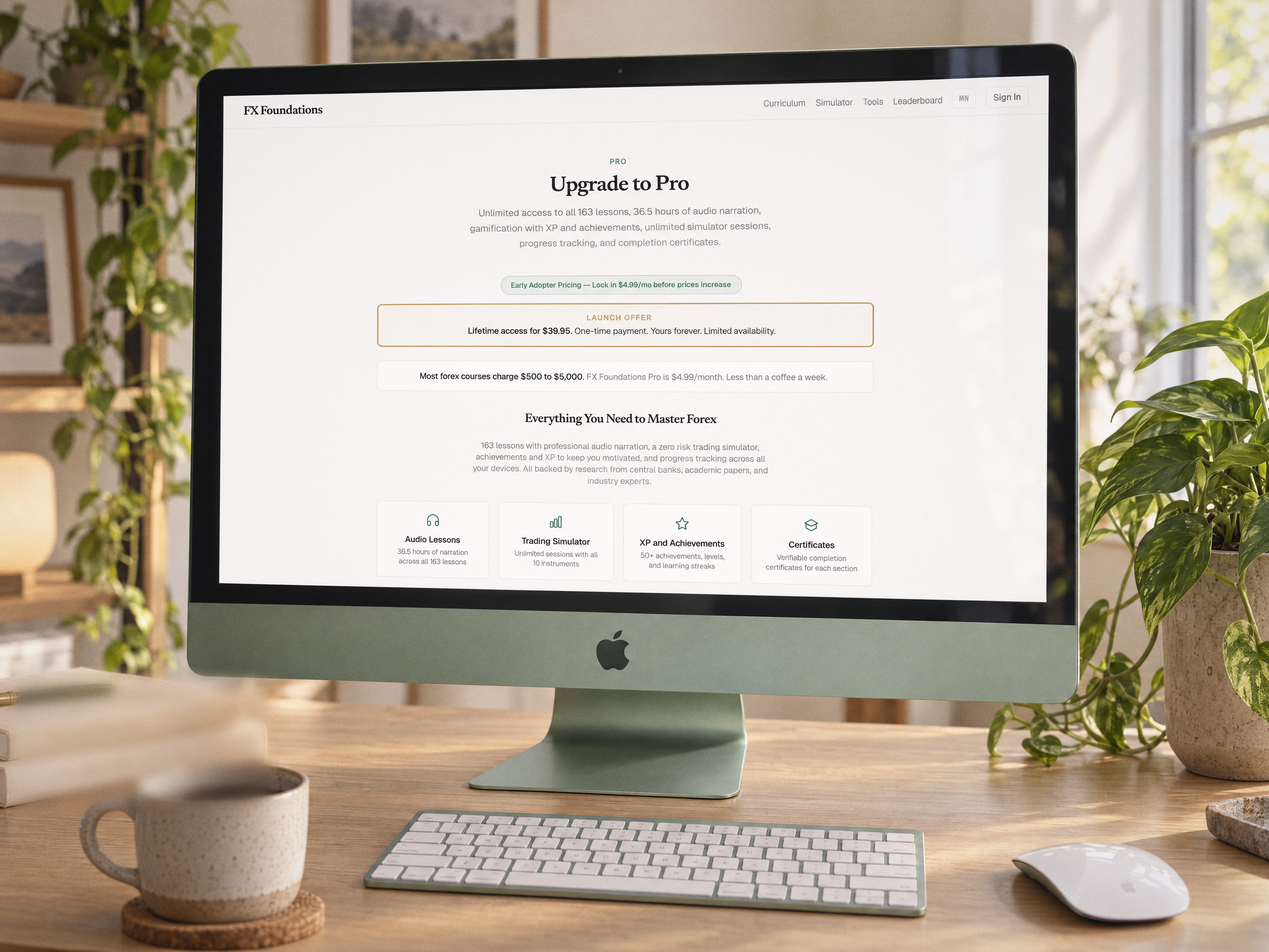
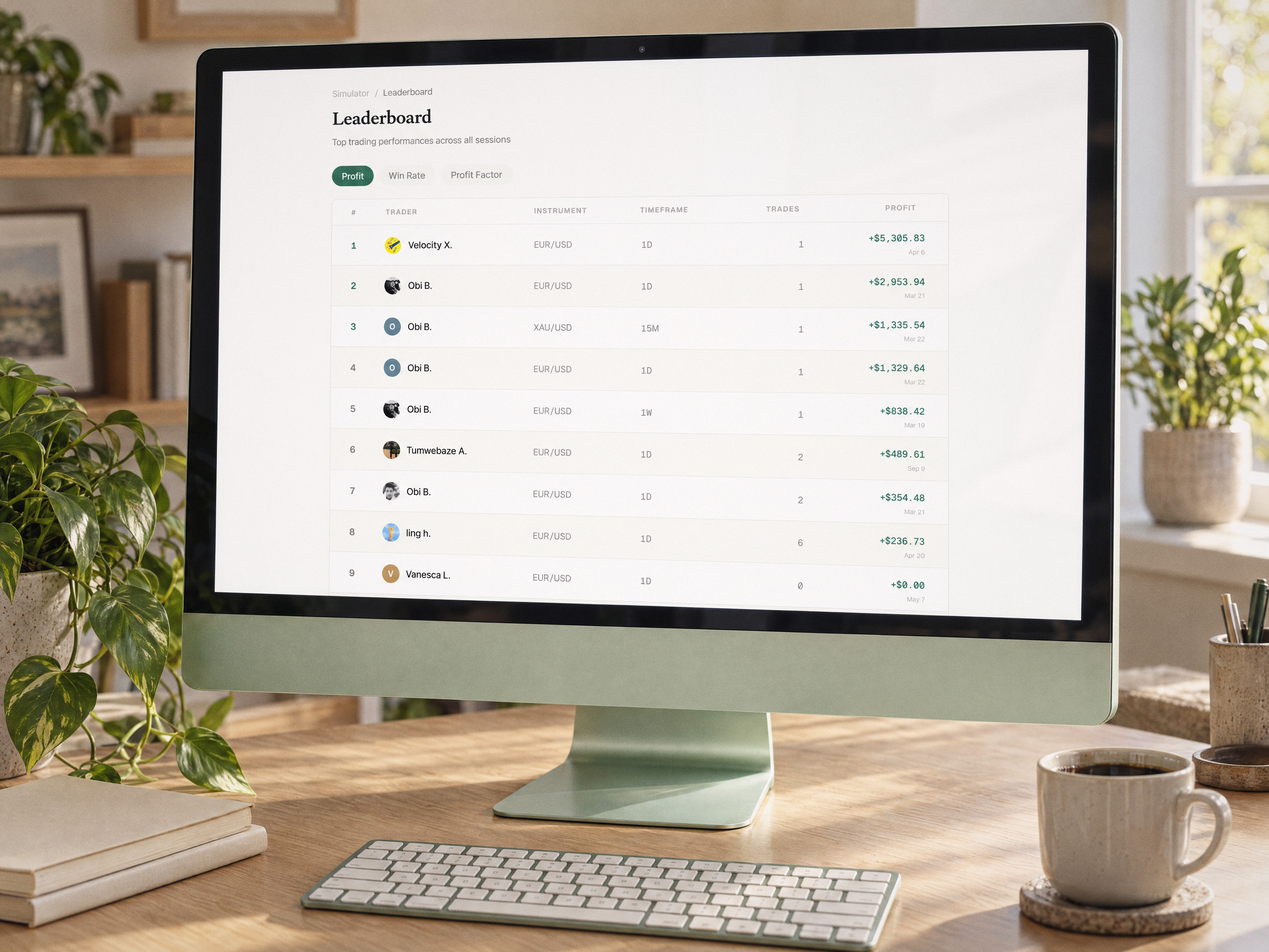
fix(work): FX Foundations iMac image shows the leaderboard instead of pricing

diff --git a/src/app/work/[slug]/page.tsx b/src/app/work/[slug]/page.tsx
@@ -258,7 +258,7 @@ const projects: CaseStudy[] = [
     gallery: [
       { src: "/images/projects/fx-foundations/fx-foundations-gallery-01.jpg", alt: "A lesson page on an iPad propped on a study desk beside headphones and a notebook", caption: "Every lesson is MDX with typed key terms, callouts and cited sources, narrated for listening on the go." },
       { src: "/images/projects/fx-foundations/fx-foundations-gallery-02.jpg", alt: "The curriculum page on a phone laid flat beside earbuds, a notebook and an espresso", caption: "18 sections, 163 lessons, 39 hours, all statically rendered and readable on a phone." },
-      { src: "/images/projects/fx-foundations/fx-foundations-gallery-03.jpg", alt: "The pricing page on a green iMac in a plant-filled home study", caption: "Stripe powered Pro plans: $4.99 monthly or $39.95 lifetime." },
+      { src: "/images/projects/fx-foundations/fx-foundations-gallery-03.jpg", alt: "The simulator leaderboard on a green iMac in a plant-filled home study", caption: "The public leaderboard: simulator sessions ranked by profit, win rate or profit factor, with XP and achievements behind it." },
       { src: "/images/projects/fx-foundations/fx-foundations-gallery-04.jpg", alt: "Curriculum overview in Mongolian", caption: "Full Mongolian localisation across the curriculum and interface" },
       { src: "/images/projects/fx-foundations/fx-foundations-gallery-05.jpg", alt: "Public simulator leaderboard ranked by profit", caption: "Leaderboard, XP levels and achievements built on Supabase" },
     ],
